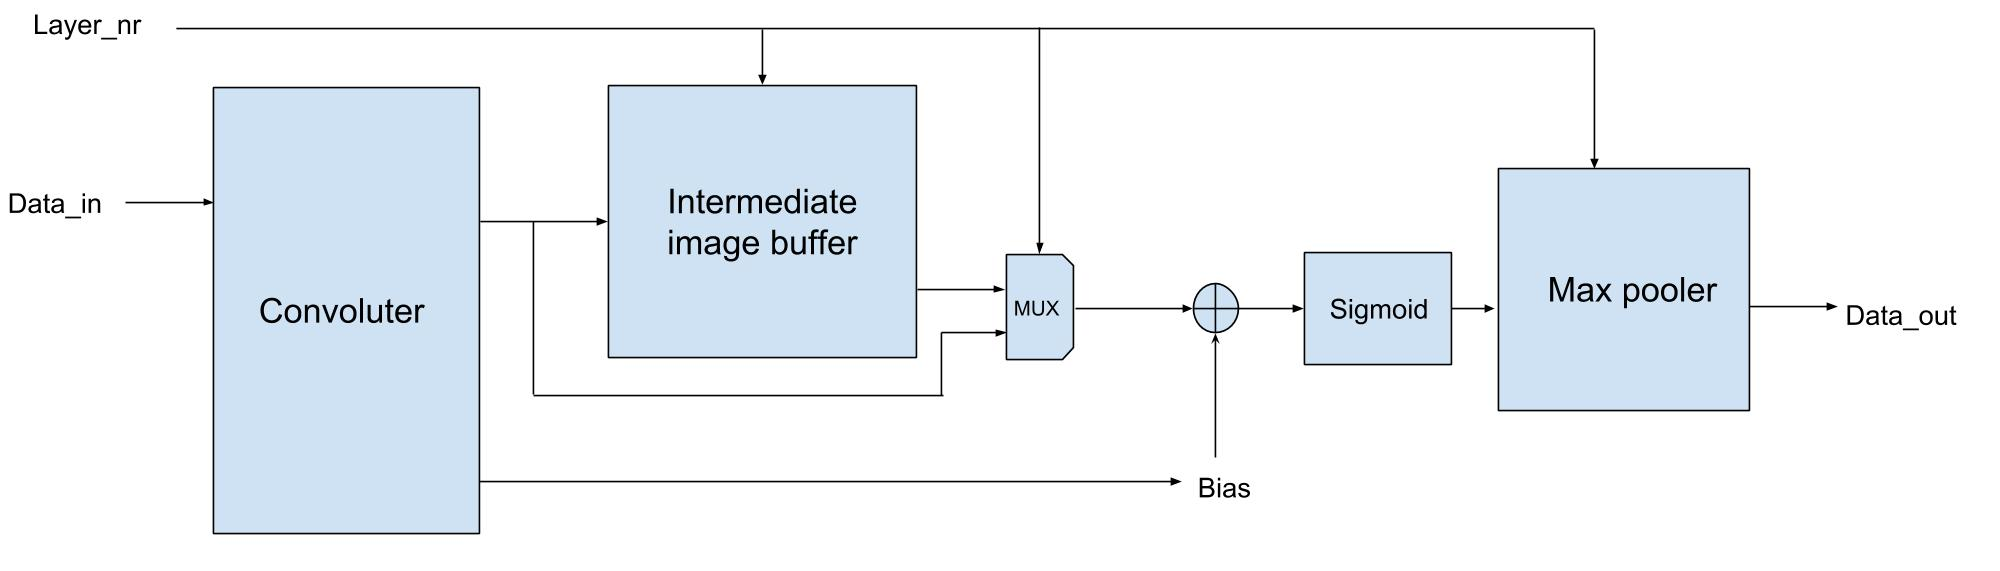
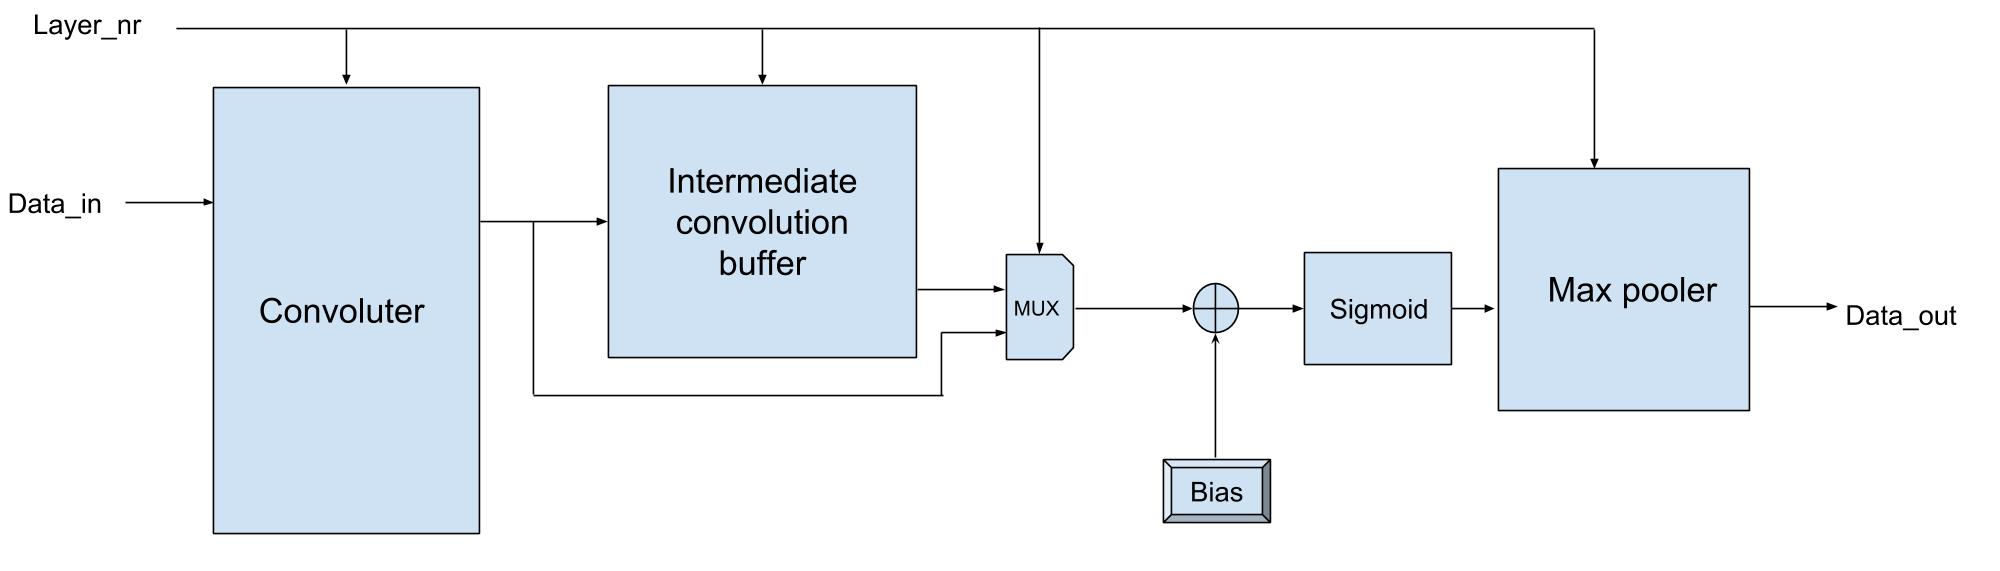
method

Changed region(s): [[0.248, 0.8039, 0.651, 0.9229], [0.31, 0.2977, 0.434, 0.5061]]

diff --git a/Pre-master Project/Report/method.tex b/Pre-master Project/Report/method.tex
@@ -11,41 +11,32 @@ In this project we had a Spartan 6 LX16 development board at our disposal, thus 
 
 \section{Imagezors Architecture}
 
+Imagezor takes \textit{n} images as input, $ I_1, I_2, \dots, I_n $, a single kernel $ K $, and outputs a processed image $ O $. Using the input images and the kernel it performs the operations of the convolution and subsampling/pooling layer for a single kernel. Thus the output $ O $ is a subsampled/pooled feature map that has been produced by convolution the images $ I_1, I_2, \dots, I_n $ with the kernel $ K $. 
+Imagezor can thus compute the convolution and subsample/pooling layer by doing the above computations for all the kernels in the respective layer. 
 
-Imagezor takes \textit{n} images as input, $ I_1, I_2, \dots, I_n $, a single kernel $ K $, and outputs a processed image $ O $.  Each image $ I_i $ is convolved with the kernel $ K $, and each respective pixel from each convolution is then summed, added a bias to, and sent through a non-linear function. Afterwards the resulting matrix is subsampled/max-pooled, where it is divided into $ p \times p $ non-overlapping neighborhoods, from which the maximum value is extracted. The result is the output image $ O $. Thus essentially Imagezor computes a single feature map based on the input images and a single kernel and performs a subsample/max-pool operation, and outputs the result. 
-
-Using this architecture one can compute the convolution layer and subsample/pooling layer one feature map at a time. The workflow would go like this:
-
-\begin{enumerate}
-	\item Load the kernel associated with the respective feature map into the module.
-	\item Load all the input images into a buffer the module can read from.
-	\item Enable the module to start processing.
-	\item Wait until 
-\end{enumerate}
-
-
-In order to support both of the layers, Imagezor takes in a control signal which determines which layer is currently is being processsed. 
-
-The overall architecture of the convolution layer is separated into five modules:
+Imagezors pipeline consists of five major components (Figure \ref{fig_imagezor_architecture}):
 
 \begin{itemize}
 	\item \textbf{The convoluter}. Performs the convolution operation on the input.
-	\item \textbf{The intermediate feature map buffer}. Since the resulting feature map is the sum of the convolutions of all the input images, this buffer is needed to store the results from the previous convolution, so that it can be added to the current convolution. In the first layer of the network there is only one input image (i.e. $ n = 1 $), thus no summation is needed.
+	\item \textbf{The intermediate convolution buffer}. Since the resulting feature map is the sum of the convolutions of all the input images (with the exception of the first layer), this buffer is needed to store the results from the previous convolution, so that it can be accumulated with the current convolution. In the first layer of the network there is only one input image (i.e. $ n = 1 $), thus no summation is needed.
 	\item \textbf{Bias register}. Contains the bias value, and adds it to each convoluted pixel. 
 	\item \textbf{Sigmoid}. Performs the non-linear sigmoid function  on the feature maps.
 	\item \textbf{Subsample/max-pooler}. Performs the subsample/max-pool operation on the feature maps. 
 \end{itemize}
 
 \begin{figure}[h!]
-  \centering
-      \includegraphics[width=1.0\textwidth]{Figures/Method/conv_layer_arch}
-  \caption{The architecture of Imagezor.}
+	\centering
+    	\includegraphics[width=1.0\textwidth]{Figures/Method/conv_layer_arch}
+  	\caption{The architecture of Imagezor.}
+  	\label{fig_imagezor_architecture}
 \end{figure}
 
+The \textit{layer\_nr} signal is used to define if it is the first or the second layer. The input image in the first layer is bigger than in the second ($ 32 \times 32 $ vs $ 14 \times 14 $), which the convoluter and the max pooler need to compensate for (see Section \ref{sec_convoluter} and \ref{sec_max_pooler}). In addition in the second layer the intermediate convolution buffer needs to be activated so it accumulate and store all the convolutions needed to compute a single feature map. Thus the mux is needed to propagate the data directly from the convoluter in the first layer, and from the buffer in the second layer. 
 
-\subsection{The Convoluter} 
 
-This module is inspired by \cite{Farabet2009}. The input is a $ n \times n $ image \textit{I}, and the output is a $ (n-k+1) \times (n-k+1) $ convolved image \textit{C}, using a $ k \times k $ kernel \textit{K}. Every clock cycle the module takes in a pixel as input, and after a certain delay it will output a processed pixel almost every cycle. Each pixel is inputted once, left to right, one row at a time. 
+\subsection{The Convoluter} \label{sec_convoluter}
+
+This module is inspired by \cite{Farabet2009}. The input is a $ n \times n $ image, and the output is a $ (n-k+1) \times (n-k+1) $ feature map, using a $ k \times k $ kernel. The kernel is stored in internal registers that must be rewritten for each different feature map that is to be computed. Every clock cycle the module takes in a pixel as input, and after a certain delay it will output a processed pixel almost every cycle. Each pixel is inputted once, left to right, one row at a time. 
 
 It consists of 2D grid of multiply and accumulate (MAC) units which represents the convolution kernel. Thus the grid dimension is equal to the kernel dimension. In every MAC unit there is a register that contains the respective kernel weight. In every clock cycle the MAC units multiply the input pixel with its weight, and then accumulates the result from the previous cycle of the MAC unit to the left. 
 
@@ -61,7 +52,9 @@ By providing this delay you only have to input each pixel once during the convol
 
 The delay these shift registers cause are the reason for the delay before valid output pixels are produced. Thus from when the convolution starts, the output will not be valid before $ k-1 $ rows of the image have been processed. And for every new image row, there will be a $ k-1 $ cycle delay before output is valid. This is demonstrated by the fact that the input image is a $ n \times n $ matrix, while the output matrix is a $ (n-k+1) \times (n-k+1) $ matrix. 
 
-The loading of the weights takes $ k \times k $ clock cycles, and the processing of the image takes $ n \times n $ clock cycles. Thus the total number of cycles it takes to perform a full convolution of an image is $ n \times n + k \times k $. But based upon the papers refered to in Section \ref{sec_related_work} it seems that \textit{n} tends to be larger than \textit{k}. E.g. for the first layer in the LeNet-5 \cite{LeCun1998}, $ n = 32 $ and $ k = 5 $, the loading  of the weights take 25 clock cycles and the image processing 1024 cycles. This means that the execution time of the Convoluter is primairly bounded by the size of the image. But the size of the kernel decides the hardware resource cost of the module, since it requires $ k \times k $ DSP slices on the FPGA.
+Since the two layers in the network have different image sizes, but uses the same kernel size, we can reuse the module for both of them. This is done by having the control signal \textit{layer\_nr} decide how many of the shift registers that are to be used during convolution. In the first layer all of the shift registers are used, but in the second only a subset is used. I.e. $ n-k+1 $ of shift registers are used in each row, where $ n $ is either 32 or 14. 
+
+The loading of the weights takes $ k \times k $ clock cycles, and the processing of the image takes $ n \times n $ clock cycles. Thus the total number of cycles it takes to perform a full convolution of an image is $ n \times n + k \times k $. But based upon the papers refered to in Section \ref{sec_related_work} it seems that \textit{n} tends to be larger than \textit{k}. E.g. for the first layer in the LeNet-5 \cite{LeCun1998}, $ n = 32 $ and $ k = 5 $, the loading  of the weights take 25 clock cycles and the image processing 1024 cycles. This means that the execution time of the Convoluter is primairly bounded by the size of the image. But the size of the kernel decides the hardware resource cost of the module, since it requires $ k \times k $ DSP slices on the FPGA. Thus the 32 DSPs on the Spartan 6 is enough in order to implement the LeNet-5. 
 
 \begin{figure}[h!]
   \centering
@@ -75,9 +68,9 @@ The loading of the weights takes $ k \times k $ clock cycles, and the processin
 
 \vspace*{1\baselineskip}
 REWRITE FIRST PART
-\subsection{The Max Pooler} 
+\subsection{The Max Pooler} \label{sec_max_pooler}
 
-The Max Pooler (SS/MP) was designed to complement the CM and avoid being a bottleneck. Thus it was designed to act in the same streaming way as the convolution module, and be done processing at almost the same time. The input is a $ (n-k+1) \times (n-k+1) $ convolved image \textit{C}, and the output is a $ (n-k+1)/p \times (n-k+1)/p $ SS/MP image \textit{P}, where \textit{p} is the dimension of subsample neighborhood. As with the CM, one pixel is streamed in every cycle, and streamed out whenever a valid pixel is ready. Designed this way the SS/MP can process in parallel with the CM, by directly streaming the output of the CM into the SS/MP module. 
+The Max Pooler performs the subsample/max-pooling operation described in Section \ref{sec_cnn_def}. The input is a $ (n-k+1) \times (n-k+1) $ feature map, and the output is a $ (n-k+1)/p \times (n-k+1)/p $ subsampled/max-pooled feature map, where \textit{p} is the dimension of subsample neighborhood. As with the convoluter, one pixel is streamed in every cycle, and streamed out whenever a valid pixel is ready. Designed this way the Max Pooler can process in parallel with the Convoluter, by directly streaming the output of the Convoluter into the Max Pooler module. In other words, the operations of convolution layer and subsampling/pooling layer is pipelined.
 
 \begin{figure}[h!]
   \centering
@@ -87,5 +80,7 @@ The Max Pooler (SS/MP) was designed to complement the CM and avoid being a bottl
 
 The module compares the input with the current max value, and updates the max value accordingly. It contains a set of \textit{(n-k+1)/p} shift registers. Since the image is divided into $ p \times p $ non-overlapping neighborhoods, the module needs to store the current maximum value of previous neighborhood when a pixel from a new neighborhood is inputted. To do this the module contains two counters, \textit{row\_num} and \textit{column\_num}. When a new pixel is inputted the \textit{column\_num} counter is incremented, and when a new row is encountered the \textit{row\_num} counter is incremented. Every time $ column_num mod p = 0 $ the shift registers are shifted one to the right, and every time $ column_num mod p = 0 and row_num mod p = 0 $ a valid output is produced. 
 
-The execution speed of the SS/MP module is bounded by the size of the input image, $ c \times c $ clock cycles, finishing one cycle after the last pixel has been inputted. 
-Thus by streaming the output of the CM to the SS/MP, both will finish only a few cycles apart, effectively running both jobs in parallel. The resource usage of the module is bounded by the size of the subsampling dimension, since it requires a number of shift registers equal to the size of the dimension. But essentially its resource usage is quite low.  
+
+
+The execution speed of the Max Pooler module is bounded by the size of the feature map, $ (n-k+1) \times (n-k+1) $ clock cycles, finishing one cycle after the last pixel has been inputted. 
+Thus by streaming the output of the Convoluter to the Max Pooler, both will finish only a few cycles apart, effectively running both jobs in parallel. The resource usage of the module is bounded by the size of the subsampling dimension, since it requires a number of shift registers equal to the size of the dimension. But essentially its resource usage is quite low.  

diff --git a/Pre-master Project/Report/background.tex b/Pre-master Project/Report/background.tex
@@ -164,7 +164,7 @@ A \textit{Convolutional Neural Network} \cite{LeCun1998} (CNN) is an extension o
   \label{fig_cnn}
 \end{figure}
 
-\subsection{Definition}
+\subsection{Definition} \label{sec_cnn_def}
 
 The CNN model adds two additional types of layers, in addition to the standard ANN layers: a \textit{convolution layer} and a \textit{subsampling/pooling layer}. The idea behind the two new layers is to exploit the strong 2D local structure of images, i.e. pixels close to each other are highly correlated. By using local correlation one can extract and combine small local features (e.g. edges, corners, points) into higher-order features (e.g. nose, mouths, forehead), which can in the end be recognized as an object (e.g. a face).  A full network is illustrated in Figure \ref{fig_cnn}.
 
@@ -211,8 +211,6 @@ Once a feature has been detected, the exact position become less important. For 
   \caption{Illustration of the convolution and subsampling/max-pooling operations. The leftmost matrix is convulted with a $ 2 \times 2 $ kernel, and the resulting matrix is subsampled into four non-overlapping areas where the max value is extracted.}
   \label{fig_conv_ss_mp}
 \end{figure}
-
-\hfill \break
 
 We can then formally define subsampling/pooling as:
 
